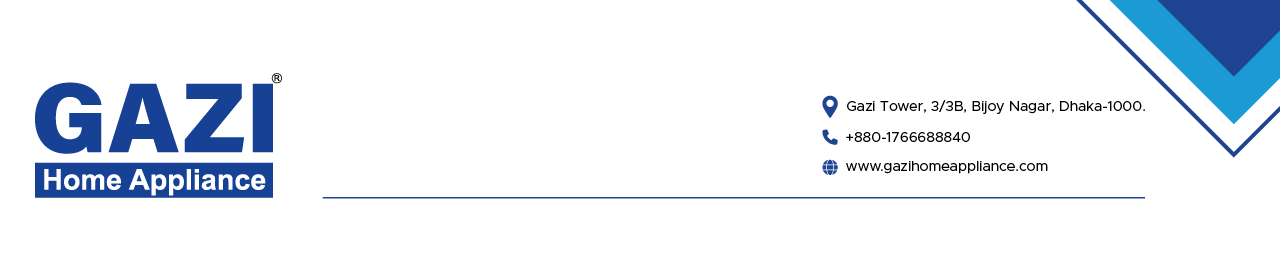
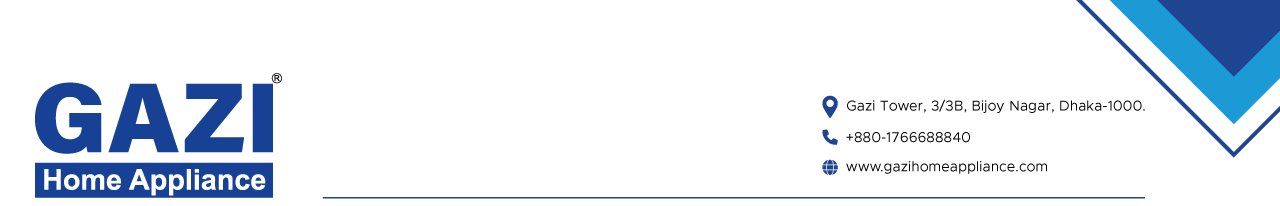
up

diff --git a/src/components/invoice/index.tsx b/src/components/invoice/index.tsx
@@ -1,4 +1,4 @@
-import { useEffect, useRef, useState } from "react";
+import { useEffect, useState } from "react";
 import { formatDate } from "../date-formate";
 import Column from "../table/column";
 import "./index.scss";
@@ -9,7 +9,6 @@ const Invoice = ({ order }: any) => {
   const [orderItems, setOrderItems] = useState<any[]>(
     order?.orderItems?.length > 0 ? order?.orderItems : []
   );
-  const advancePayment = order.advance_payment ?? 0;
   const [amountBeforeCoupon, setAmountBeforeCoupon] = useState<number>(0);
   useEffect(() => {
     if (order?.coupon) {
@@ -179,11 +178,7 @@ const Invoice = ({ order }: any) => {
             <td>
               <div className="invoice">
                 <div className="invoice-body">
-
-
-
                   <div className="watermark">
-
                     {
                       order?.order_form == "web" || order.order_prefix === "GC" ?
                         <>

diff --git a/src/components/invoice/index.scss b/src/components/invoice/index.scss
@@ -49,7 +49,7 @@
     display: flex;
     flex-direction: column;
     justify-content: flex-end;
-
+    margin-top: .5rem;
     h3 {
       font-size: 14px;
     }
@@ -67,6 +67,7 @@
     .title {
       display: flex;
       justify-content: space-between;
+      margin-bottom: 2rem;
     }
 
     .customer-details {
@@ -301,14 +302,10 @@ p+p {
   }
 
   .header-space {
-    height: 186px;
+    height: 130px;
 
   }
 
-  .footer-space {
-    height: 76px;
-
-  }
 
   .invoice-footer {
     display: none;
@@ -329,7 +326,6 @@ p+p {
     right: 0;
     display: block;
     margin-bottom: 1rem;
-    background-color: green;
 
     img {
       width: 100%;
